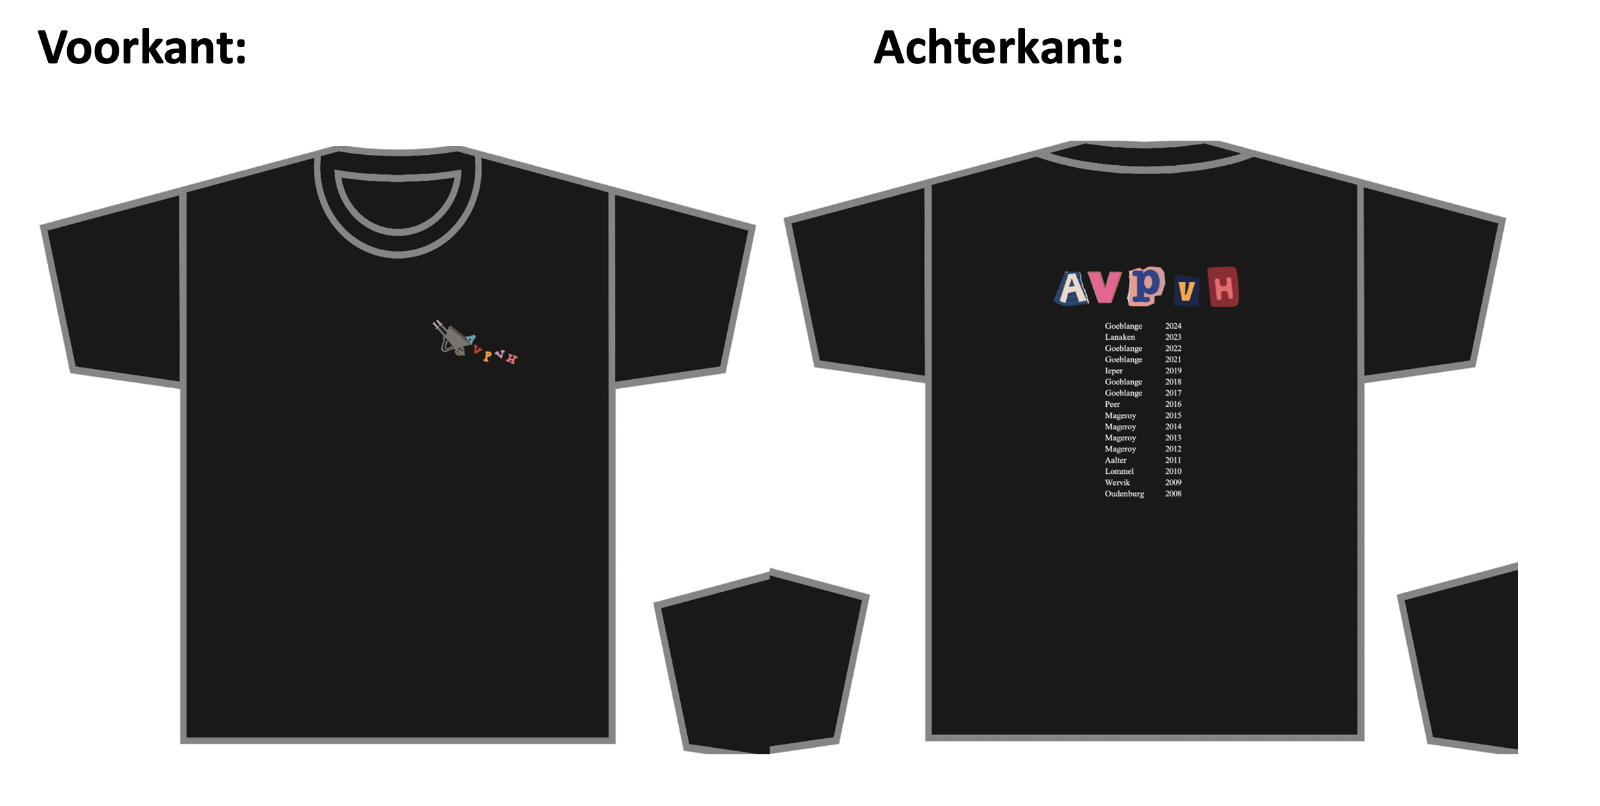
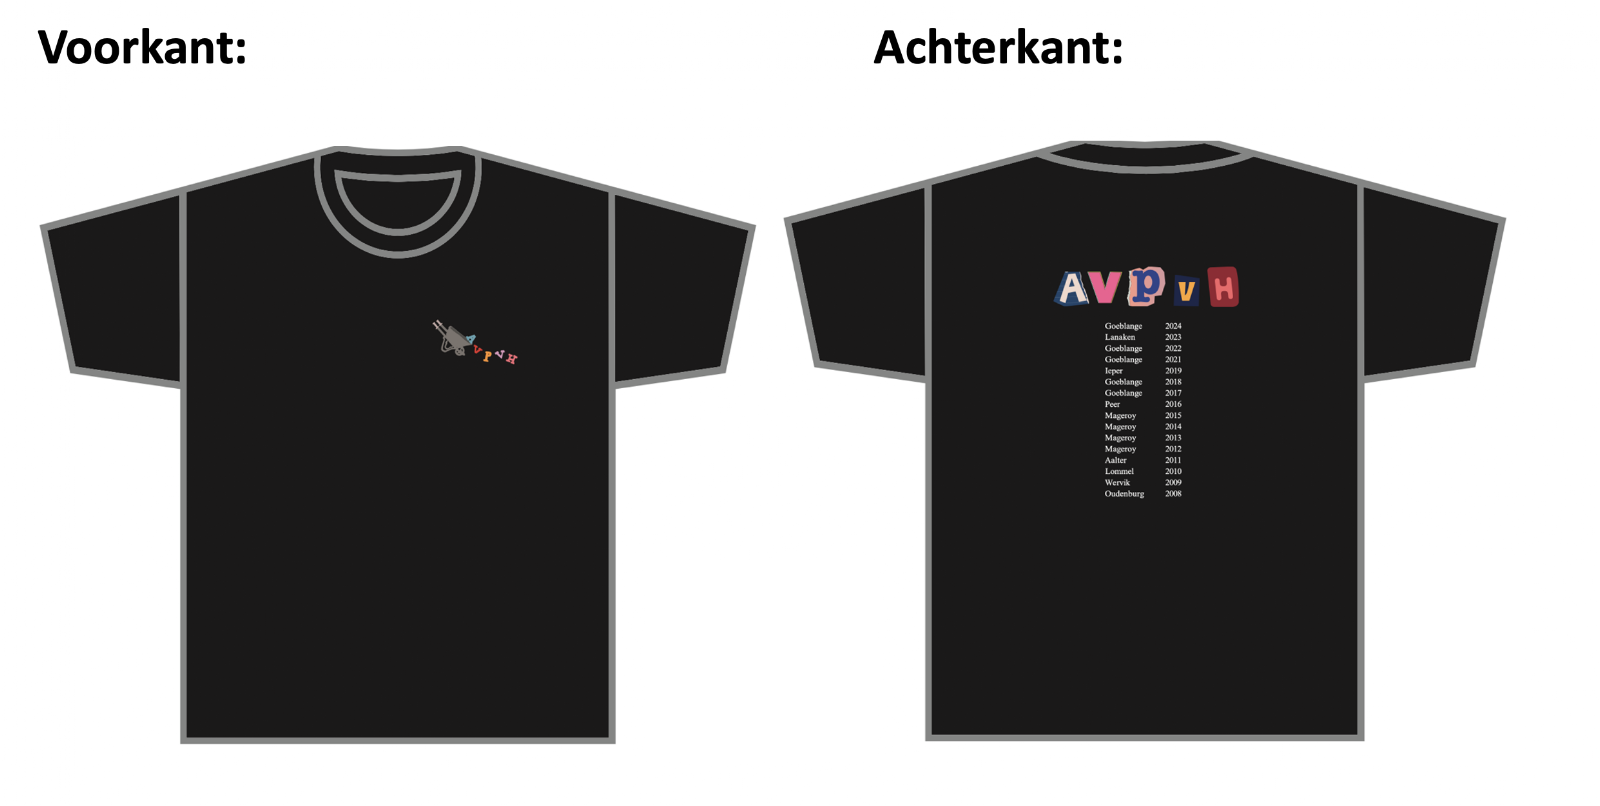
Verwijder zwarte restvormen uit de t-shirt-mockups design-1.png en design-2.png
Beide mockup-afbeeldingen bevatten naast de Voorkant/Achterkant-weergave
nog een extra, los zwart vlak-fragment onderin (vermoedelijk een
afgekapte extra aanzicht uit de originele mockup-export). Weggewerkt
door dat gebied wit te overschilderen; de shirts zelf zijn ongemoeid
gelaten.

Changed region(s): [[0.4062, 0.6824, 0.5625, 0.9615], [0.875, 0.6824, 0.9688, 0.9305]]

diff --git a/avpvh-bookkeeping.php b/avpvh-bookkeeping.php
@@ -3,7 +3,7 @@
  * Plugin Name: AV-PvH Boekhouding
  * Plugin URI:  https://github.com/grmt/avpvh-bookkeeping
  * Description: Contributie- en kampbijdrage-boekhouding voor AV Philips van Horne: bankexports inlezen, betalingen aan leden koppelen, saldo tonen via QR-popup en profielpagina.
- * Version:     1.17.1
+ * Version:     1.17.2
  * Author:      grmt
  * Author URI:  https://github.com/grmt/avpvh-bookkeeping
  * Text Domain: avpvh-bookkeeping
